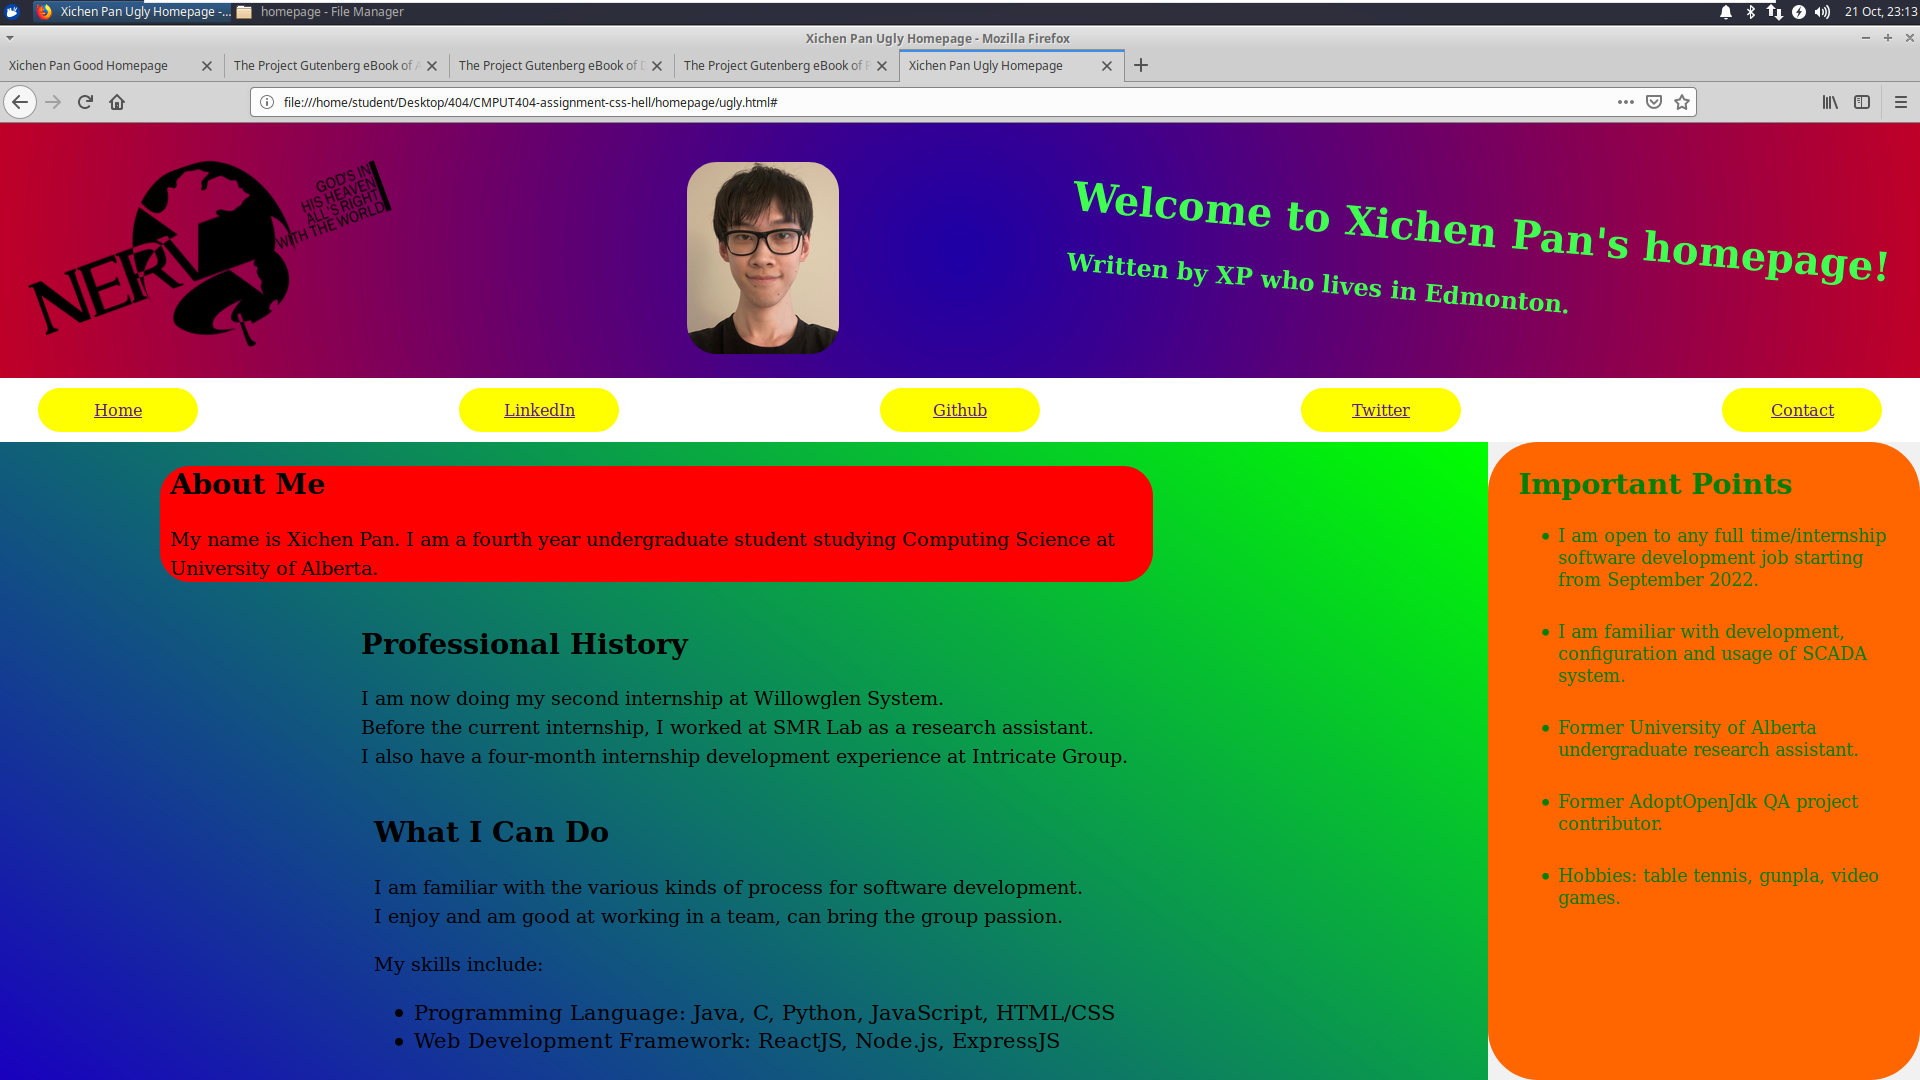
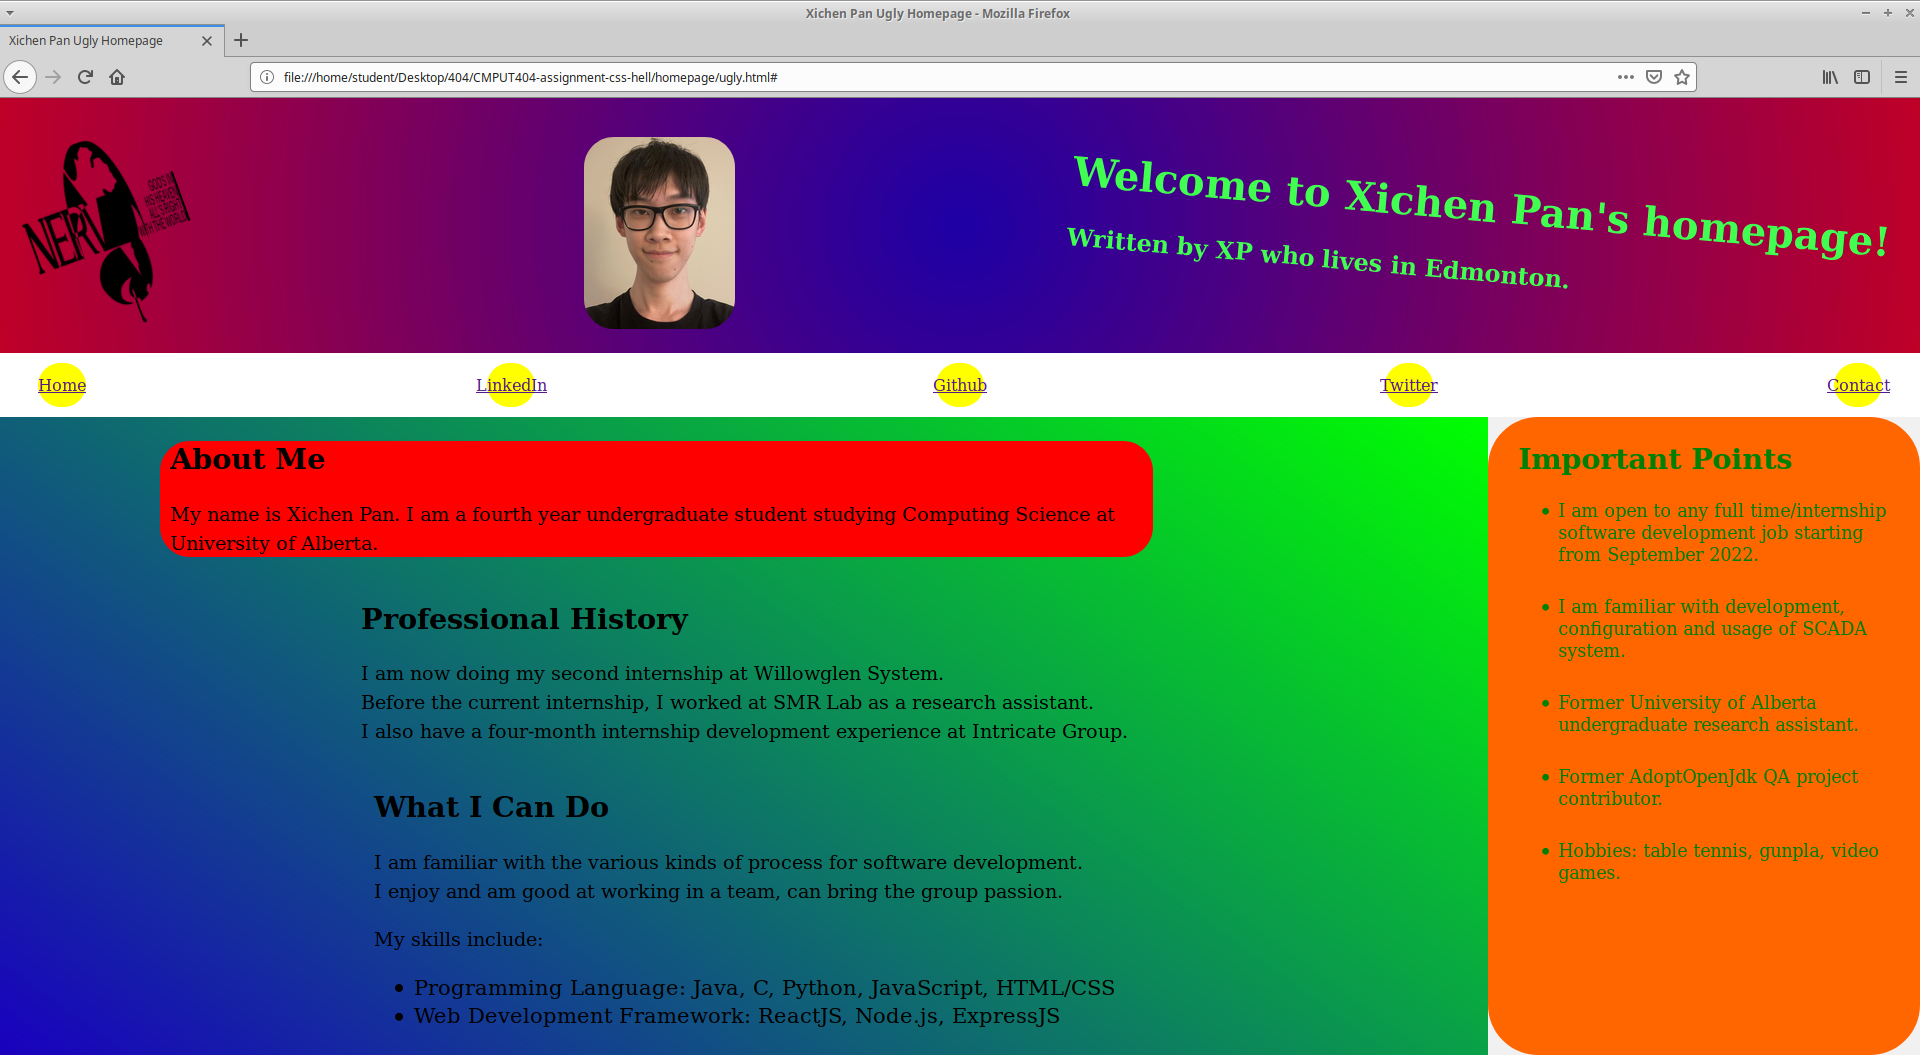
update ugly page

diff --git a/homepage/ugly.css b/homepage/ugly.css
@@ -51,7 +51,7 @@ header {
   display: flex;
   align-items: center;
   justify-content: center;
-  width: 10em;
+  width: 3em;
   border-radius: 35px;
 }
 
@@ -74,10 +74,12 @@ header {
 
 .img-container {
   height: 80%;
+  width: 10em;
 }
 
 .img-container img {
   height: 100%;
+  width: 100%;
   transform: rotate(-20deg);
 }
 
